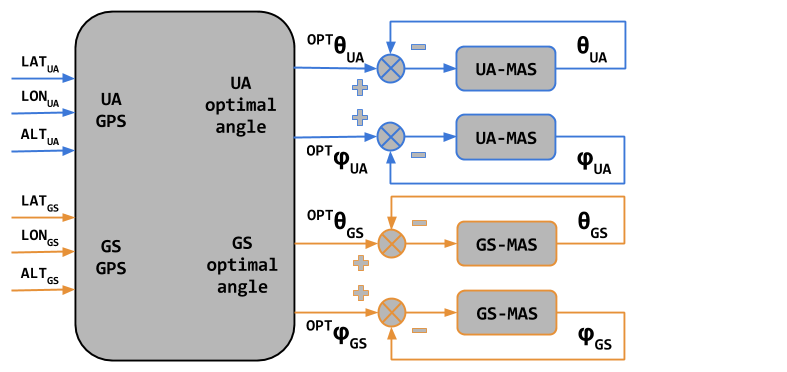
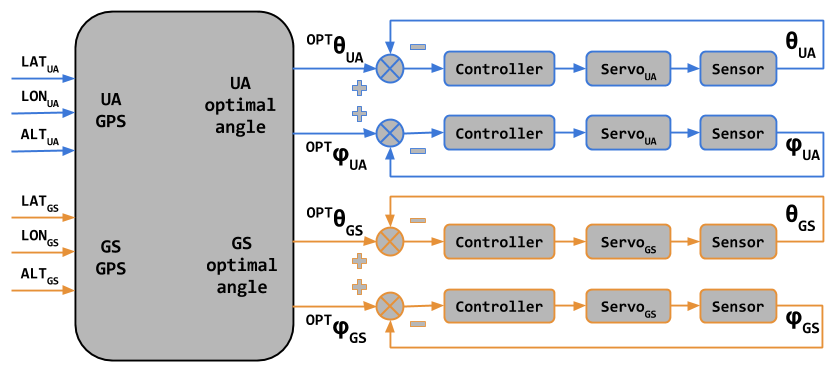
sims

Changed region(s): [[0.244, 0.0296, 1.0, 0.9758], [0.0, 0.0296, 0.183, 0.9758]]

diff --git a/doc/presentation/slides/simulation.tex b/doc/presentation/slides/simulation.tex
@@ -11,7 +11,10 @@
   \end{block}
 \end{frame}
 
-\begin{frame}{Simulation}{Map Parameters}
+\begin{frame}{Simulation}{LOS Distance}
+  \begin{figure}
+    \includegraphics[scale=0.25]{../report/figures/gs_ua_map.png}
+  \end{figure}
   \begin{block}{Parameters taken into account}
 	\begin{itemize}
 	 	\item Terrain elevation
@@ -19,20 +22,20 @@
 	  	\item Altitude of UA and GS
 	\end{itemize}
   \end{block}
-  \begin{block}{Working principle}
-	  \begin{itemize}
-	  	\item Import topography map
-	  	\item Input GS and UA altitude
-	  	\item Choose GS and UA locations on map to plot LOS distance
-	  	\item Choose GS location on map to plot LOS coverage map
-	  \end{itemize}
-  \end{block}
 \end{frame}
 
 \begin{frame}{Simulation}{LOS Distance between UA and GS} 
   	\begin{figure}
         \includegraphics[scale=0.29]{../report/figures/los_2points.png}
     \end{figure}
+\end{frame}
+
+\begin{frame}{Simulation}{LOS Coverage Map}
+  \begin{block}{Plot LOS area around GS}
+	\begin{figure}
+    	\includegraphics[scale=0.33]{../report/figures/dk_map.png}
+    \end{figure}
+  \end{block}
 \end{frame}
 
 \begin{frame}{Simulation}{LOS Coverage Map} 
@@ -76,7 +79,7 @@
 % 	  	\item Compute optimal angles and error signal 
 % 	  	\item Input error signal in the controller
 % 	  	\item Limit output signal from controller using the saturation box
-% 	  	\item Input controller signal to the MAS
+% 	  	\item Input controller signal to the servomotor
 % 	  	\item Feedback the output angle in the optimal angle block
 % 	  \end{enumerate}
 %   \end{block}
@@ -85,11 +88,11 @@
 \begin{frame}{Simulation}{3D UAS}
   \begin{block}{Simulation assumptions}
 	  \begin{itemize}
-	  	\item Specific antenna parameters for GS and UA
-	  	\item Uses same MAS model for GS and UA
+	  	\item Same antenna parameters for GS and UA
+	  	\item Same MAS model for GS and UA
 	  	\item Saturation box threshold set from $-5V$ to $+5V$
 	  	\item Noise modelled as Gaussian White Noise of power $10^{-4}$
-	  	\item No power threshold in the receiver
+	  	\item Azimuth and elevation angles start at 0 degrees
 	  \end{itemize}
   \end{block}
 \end{frame}
